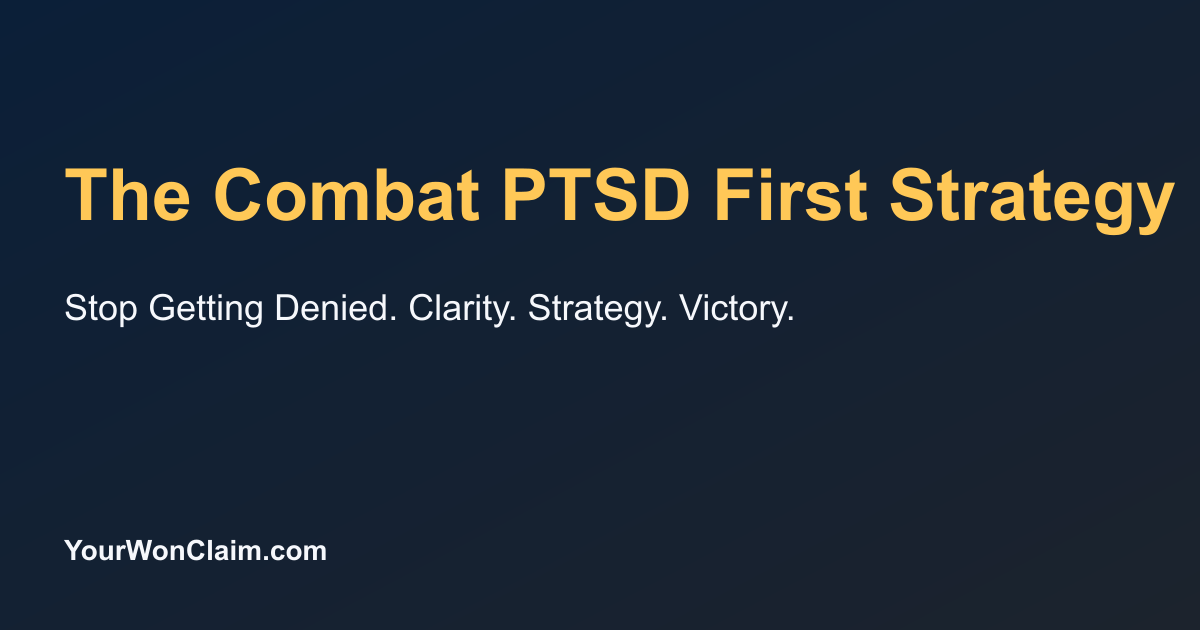
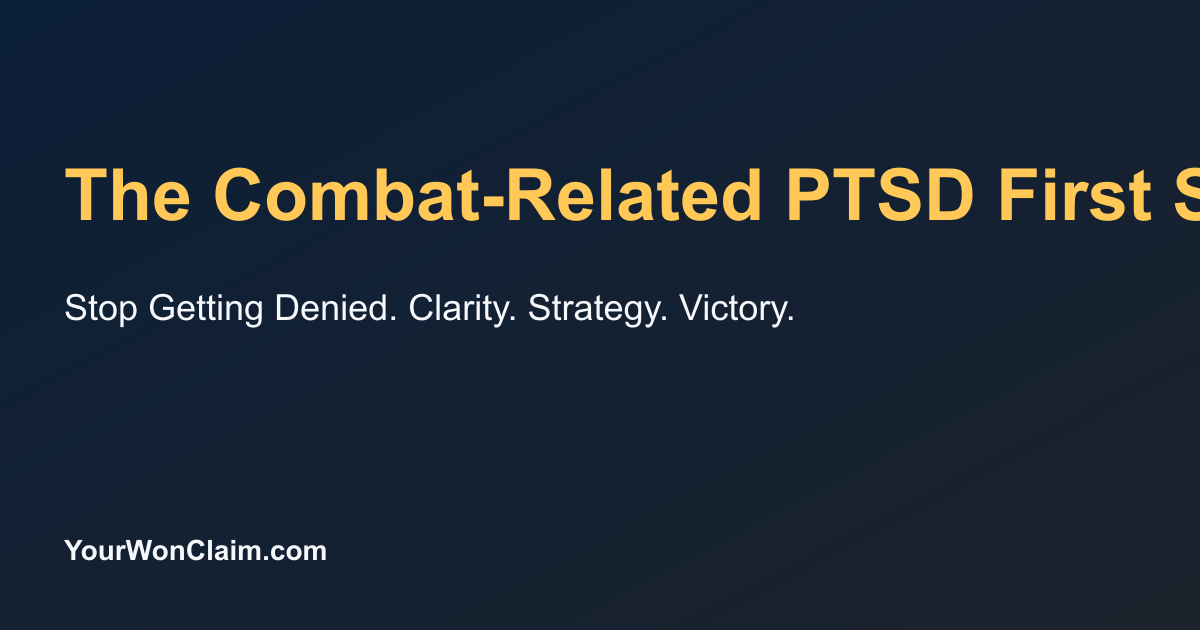
Update terminology and add CFR reference for combat-related PTSD
- Change all instances of 'Combat PTSD' to 'Combat-Related PTSD' across all pages
- Add comprehensive CFR section explaining what qualifies as combat-related PTSD
- Include specific references to 38 CFR  3.304(f) and VA Manual M21-1
- Clarify that veterans don't need to prove specific stressors for combat-related PTSD
- Update OG images with corrected terminology
- Address common misconception that only direct combat qualifies

This addresses the biggest barrier veterans face in claiming PTSD benefits.

Changed region(s): [[0.4008, 0.2413, 1.0, 0.3921]]

diff --git a/pages/strategy.html b/pages/strategy.html
@@ -2,7 +2,7 @@
 <html lang="en">
 <head>
   <meta charset="utf-8">
-  <title>The Strategy — Combat PTSD First | YourWonClaim</title>
+  <title>The Strategy — Combat-Related PTSD First | YourWonClaim</title>
   <meta name="viewport" content="width=device-width, initial-scale=1">
   <meta name="description" content="Lead with Combat‑Related PTSD: the lowest burden, highest impact claim to win faster.">
   <link rel="canonical" href="https://www.yourwonclaim.com/pages/strategy.html">
@@ -16,7 +16,7 @@
   <link rel="stylesheet" href="/src/styles/main.css">
   <link rel="icon" href="/favicon.svg" type="image/svg+xml">
   <link rel="manifest" href="/site.webmanifest">
-  <meta property="og:title" content="The Strategy — Combat PTSD First | YourWonClaim">
+  <meta property="og:title" content="The Strategy — Combat-Related PTSD First | YourWonClaim">
   <meta property="og:description" content="Lead with Combat‑Related PTSD: the lowest burden, highest impact claim to win faster.">
   <meta property="og:type" content="website">
   <meta property="og:url" content="https://www.yourwonclaim.com/pages/strategy.html">
@@ -42,7 +42,7 @@
 
   <main id="main" class="container grid-12">
     <header class="col-12">
-      <h1>The Combat PTSD First Strategy</h1>
+      <h1>The Combat-Related PTSD First Strategy</h1>
       <p class="lead">Lead with the claim that has the lowest burden of proof and the highest impact.</p>
     </header>
 
@@ -54,6 +54,30 @@
         <li>Highest monthly value for severe ratings</li>
         <li>Gateway to faster, cleaner increases</li>
       </ul>
+    </section>
+
+    <section class="col-12" aria-labelledby="cfr-title">
+      <h2 id="cfr-title">What Actually Qualifies as Combat-Related PTSD?</h2>
+      <p class="lead">Most veterans assume they don't qualify because they weren't "in combat." This is the biggest misconception that keeps veterans from claiming what they've earned.</p>
+      
+      <div class="card">
+        <h3>According to 38 CFR § 3.304(f) and VA Manual M21-1:</h3>
+        <p><strong>Combat-related PTSD includes:</strong></p>
+        <ul>
+          <li><strong>Direct combat exposure</strong> (obvious)</li>
+          <li><strong>Combat training</strong> - Basic training, field exercises, live-fire training</li>
+          <li><strong>Combat support activities</strong> - Working in combat zones, supporting combat operations</li>
+          <li><strong>Combat zone service</strong> - Any service in designated combat zones</li>
+          <li><strong>Combat-related stressors</strong> - Events that occurred during combat or combat training</li>
+        </ul>
+        
+        <div class="highlight-box">
+          <h4>Key Point: You Don't Need to Prove Specific Stressors</h4>
+          <p>If your PTSD is determined to be combat-related, the VA cannot require you to provide evidence of specific stressors. This is the game-changer that most veterans don't know about.</p>
+        </div>
+        
+        <p class="small"><strong>Reference:</strong> 38 CFR § 3.304(f) - "Service connection for post-traumatic stress disorder" and VA Manual M21-1, Part III, Subpart iv, Chapter 4, Section A.</p>
+      </div>
     </section>
 
     <aside class="col-5 card" aria-labelledby="stats-title">

diff --git a/pages/index.html b/pages/index.html
@@ -2,9 +2,9 @@
 <html lang="en">
 <head>
   <meta charset="utf-8">
-  <title>YourWonClaim — Stop Getting Denied | The Combat PTSD First Strategy</title>
+  <title>YourWonClaim — Stop Getting Denied | The Combat-Related PTSD First Strategy</title>
   <meta name="viewport" content="width=device-width, initial-scale=1">
-  <meta name="description" content="Win Your VA Benefits—Strategically. The Combat PTSD First Strategy delivers clarity, speed, and results with proof.">
+  <meta name="description" content="Win Your VA Benefits—Strategically. The Combat-Related PTSD First Strategy delivers clarity, speed, and results with proof.">
   <link rel="canonical" href="https://www.yourwonclaim.com/pages/index.html">
   <script async src="https://www.googletagmanager.com/gtag/js?id=G-GMX19T2GWW"></script>
   <script>
@@ -41,7 +41,7 @@
   <link rel="icon" href="/favicon.svg" type="image/svg+xml">
   <link rel="manifest" href="/site.webmanifest">
 
-  <meta property="og:title" content="YourWonClaim — The Combat PTSD First Strategy">
+  <meta property="og:title" content="YourWonClaim — The Combat-Related PTSD First Strategy">
   <meta property="og:description" content="From 0% to 100% P&amp;T in 13 months. Learn the strategy—with proof.">
   <meta property="og:type" content="website">
   <meta property="og:url" content="https://www.yourwonclaim.com/pages/index.html">
@@ -70,7 +70,7 @@
     <section class="hero container grid-12" aria-labelledby="hero-title">
       <div class="col-7">
         <span class="eyebrow badge">Stop Getting Denied</span>
-        <h1 id="hero-title">The Combat PTSD First Strategy</h1>
+        <h1 id="hero-title">The Combat-Related PTSD First Strategy</h1>
         <p class="lead">Win Your VA Benefits—Strategically. Start with the claim that moves fastest and proves the most.</p>
         <div class="cta-row" style="display:flex; gap: var(--space-3); margin-top: var(--space-4);">
           <a class="btn btn--cta" href="/pages/checkout.html">Get the Complete Guide</a>

diff --git a/index.html b/index.html
@@ -2,9 +2,9 @@
 <html lang="en">
 <head>
   <meta charset="utf-8">
-  <title>YourWonClaim — Stop Getting Denied | The Combat PTSD First Strategy</title>
+  <title>YourWonClaim — Stop Getting Denied | The Combat-Related PTSD First Strategy</title>
   <meta name="viewport" content="width=device-width, initial-scale=1">
-  <meta name="description" content="Win Your VA Benefits—Strategically. The Combat PTSD First Strategy delivers clarity, speed, and results with proof.">
+  <meta name="description" content="Win Your VA Benefits—Strategically. The Combat-Related PTSD First Strategy delivers clarity, speed, and results with proof.">
   <link rel="canonical" href="https://www.yourwonclaim.com/">
   <script async src="https://www.googletagmanager.com/gtag/js?id=G-GMX19T2GWW"></script>
   <script>
@@ -41,7 +41,7 @@
   <link rel="icon" href="/favicon.svg" type="image/svg+xml">
   <link rel="manifest" href="/site.webmanifest">
 
-  <meta property="og:title" content="YourWonClaim — The Combat PTSD First Strategy">
+  <meta property="og:title" content="YourWonClaim — The Combat-Related PTSD First Strategy">
   <meta property="og:description" content="From 0% to 100% P&amp;T in 13 months. Learn the strategy—with proof.">
   <meta property="og:type" content="website">
   <meta property="og:url" content="https://www.yourwonclaim.com/">
@@ -70,7 +70,7 @@
     <section class="hero container grid-12" aria-labelledby="hero-title">
       <div class="col-7">
         <span class="eyebrow badge">Stop Getting Denied</span>
-        <h1 id="hero-title">The Combat PTSD First Strategy</h1>
+        <h1 id="hero-title">The Combat-Related PTSD First Strategy</h1>
         <p class="lead">Win Your VA Benefits—Strategically. Start with the claim that moves fastest and proves the most.</p>
         <div class="cta-row" style="display:flex; gap: var(--space-3); margin-top: var(--space-4);">
           <a class="btn btn--cta" href="/pages/checkout.html">Get the Complete Guide</a>

diff --git a/pages/guide.html b/pages/guide.html
@@ -9,7 +9,7 @@
 <html lang="en">
 <head>
   <meta charset="utf-8">
-  <title>The Combat PTSD First Strategy Guide — $197 | YourWonClaim</title>
+  <title>The Combat-Related PTSD First Strategy Guide — $197 | YourWonClaim</title>
   <meta name="viewport" content="width=device-width, initial-scale=1">
   <meta name="description" content="Framework, templates, and C&amp;P prep to win your VA benefits strategically.">
   <link rel="canonical" href="https://www.yourwonclaim.com/pages/guide.html">
@@ -28,7 +28,7 @@
   </script>
   <link rel="stylesheet" href="/src/styles/main.css">
 
-  <meta property="og:title" content="The Combat PTSD First Strategy Guide — $197">
+  <meta property="og:title" content="The Combat-Related PTSD First Strategy Guide — $197">
   <meta property="og:description" content="Framework, templates, and C&amp;P prep to win your VA benefits strategically.">
   <meta property="og:type" content="product">
   <meta property="og:url" content="https://www.yourwonclaim.com/pages/guide.html">
@@ -38,7 +38,7 @@
   {
     "@context": "https://schema.org",
     "@type": "Product",
-    "name": "The Combat PTSD First Strategy Guide",
+    "name": "The Combat-Related PTSD First Strategy Guide",
     "description": "A step-by-step framework with templates to strategically win your VA benefits.",
     "brand": { "@type": "Brand", "name": "YourWonClaim" },
     "image": "https://www.yourwonclaim.com/og/guide-1200x630.png",
@@ -72,7 +72,7 @@
 
   <main id="main" class="container grid-12">
     <header class="col-12">
-      <h1>The Combat PTSD First Strategy Guide</h1>
+      <h1>The Combat-Related PTSD First Strategy Guide</h1>
       <p class="lead">Everything I learned getting 100% in 13 months — with templates and checklists.</p>
     </header>
 

diff --git a/contact.html b/contact.html
@@ -12,11 +12,11 @@
     <link rel="icon" href="/favicon.svg" type="image/svg+xml">
     <link rel="manifest" href="/site.webmanifest">
     <meta name="robots" content="index, follow">
-    <meta name="description" content="Contact YourWonClaim about the Combat PTSD First Strategy guide.">
+    <meta name="description" content="Contact YourWonClaim about the Combat-Related PTSD First Strategy guide.">
 
     <!-- Open Graph / Twitter Cards -->
     <meta property="og:title" content="Contact — YourWonClaim">
-    <meta property="og:description" content="Contact YourWonClaim about the Combat PTSD First Strategy guide.">
+    <meta property="og:description" content="Contact YourWonClaim about the Combat-Related PTSD First Strategy guide.">
     <meta property="og:type" content="website">
     <meta property="og:url" content="https://yourwonclaim.com/contact.html">
     <meta property="og:image" content="https://www.yourwonclaim.com/og/home-1200x630.png">
@@ -214,7 +214,7 @@
             <div class="text-center">
                 <h1>Contact Us</h1>
                 <p style="font-size: 1.2rem; margin-bottom: 3rem; color: var(--gray);">
-                    Have questions about the Combat PTSD First Strategy? We're here to help.
+                    Have questions about the Combat-Related PTSD First Strategy? We're here to help.
                 </p>
             </div>
 

diff --git a/pages/checkout.html b/pages/checkout.html
@@ -2,7 +2,7 @@
 <html lang="en">
 <head>
   <meta charset="utf-8">
-  <title>Checkout — The Combat PTSD First Strategy Guide | YourWonClaim</title>
+  <title>Checkout — The Combat-Related PTSD First Strategy Guide | YourWonClaim</title>
   <meta name="viewport" content="width=device-width, initial-scale=1">
   <meta name="description" content="Secure checkout. Immediate access. Lifetime updates.">
   <link rel="canonical" href="https://www.yourwonclaim.com/pages/checkout.html">
@@ -17,7 +17,7 @@
   <link rel="stylesheet" href="/src/styles/main.css">
   <link rel="icon" href="/favicon.svg" type="image/svg+xml">
   <link rel="manifest" href="/site.webmanifest">
-  <meta property="og:title" content="Checkout — The Combat PTSD First Strategy Guide | YourWonClaim">
+  <meta property="og:title" content="Checkout — The Combat-Related PTSD First Strategy Guide | YourWonClaim">
   <meta property="og:description" content="Secure checkout. Immediate access. Lifetime updates.">
   <meta property="og:type" content="website">
   <meta property="og:url" content="https://www.yourwonclaim.com/pages/checkout.html">
